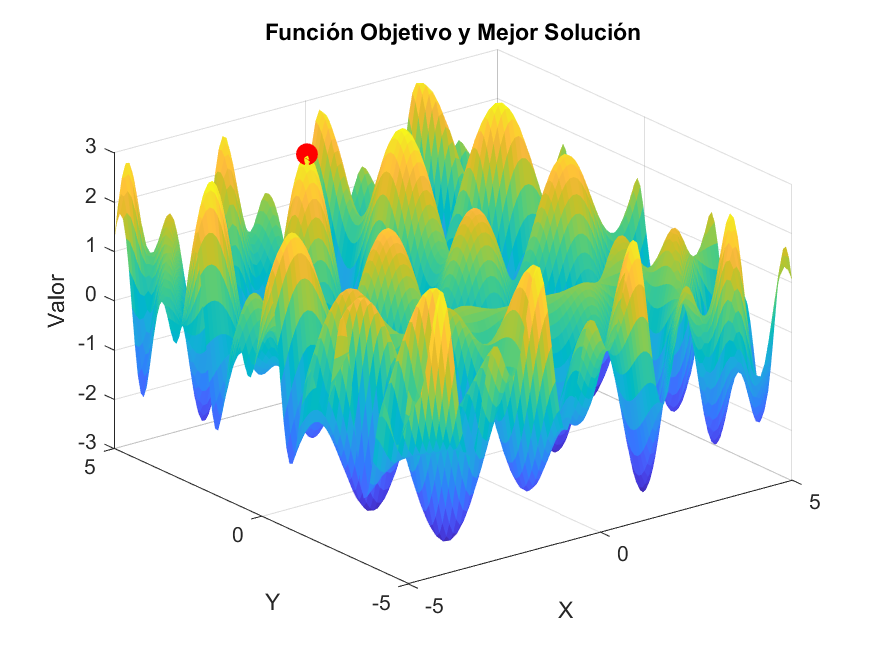
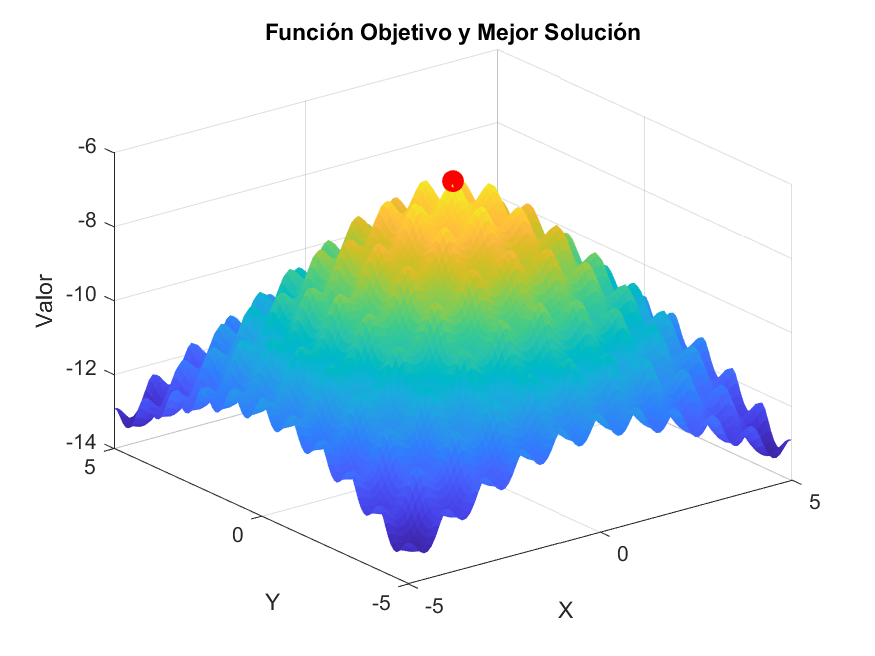
Corrección en funciones objetivo

diff --git a/ObjectiveFunc.m b/ObjectiveFunc.m
@@ -1,42 +1,43 @@
-function Z = ObjectiveFunc2D(V)
-    % Función para n variables
-
-    %Z = -sum(V.^2, 2);
-
+function Z = ObjectiveFunc(V)
+    % Función para n variables (signo - para minimizar)
+    Z1 = (sum(V.^2, 2));
+    Z2 = -(V(:,1).^2 + (10^6)*sum(V(:,2:end).^2,2));
+    
+    %Variables auxiliares
     x = V(:,1);
     y = V(:,2);
-
     z0 = 2.5;  
 
     % 1) Función Esférica
-    % Z = -(x.^2 + y.^2 + z0^2);
+    Z3 = -(x.^2 + y.^2 + z0^2);
 
     % 2) Función Lineal
-    % Z = (x + 2.*y + 3.*z0);
+    Z4 = (x + 2.*y + 3.*z0);
 
     % 3) Interacción entre variables
-    % Z = -( x.*y + y.*z0 + z0.*x );
+    Z5 = -( x.*y + y.*z0 + z0.*x );
 
     % 4) Cúbica polinómica
-    % Z = -( x.^2.*y + y.*z0.^2 + z0.*x.^2 );
+    Z6 = -( x.^2.*y + y.*z0.^2 + z0.*x.^2 );
 
     % 5) Logarítmica
-    % Z = log( x.^2 + y.^2 + z0.^2 + 1 );
+    Z7 = log( x.^2 + y.^2 + z0.^2 + 1 );
 
     % 6) Trigonométrica básica
-    % Z = sin(x) + cos(y) + sin(z0);
+    Z8 = sin(x) + cos(y) + sin(z0);
 
     % 7) Trigonométrica compuesta
-     Z = sin(x.*y) + cos(y.*z0) + sin(z0.*x);
+    Z9 = sin(x.*y) + cos(y.*z0) + sin(z0.*x);
 
     % 8) Cuadrática con término lineal (cóncava)
-    % Z = -(x.^2 + y.^2 + z0^2) + 4.*x + 6.*y + 2.*z0;
+    Z10 = -(x.^2 + y.^2 + z0^2) + 4.*x + 6.*y + 2.*z0;
 
     % 9) Ackley
     %     f = -20*exp(-0.2*sqrt((x^2+y^2+z^2)/3)) ...
     %         - exp((cos(2πx)+cos(2πy)+cos(2πz))/3) + 20 + e
-
-    % Z = -(-20*exp(-0.2*sqrt((x.^2 + y.^2 + z0.^2)/3)) ...
-    %     - exp((cos(2*pi*x) + cos(2*pi*y) + cos(2*pi*z0))/3) ...
-    %     + 20 + exp(1));
+    Z11 = -(-20*exp(-0.2*sqrt((x.^2 + y.^2 + z0.^2)/3)) ...
+         - exp((cos(2*pi*x) + cos(2*pi*y) + cos(2*pi*z0))/3) ...
+         + 20 + exp(1));
+    %Aquí se elige la función objetivo
+    Z= Z11;
 end

diff --git a/@BH/BH_Func.m b/@BH/BH_Func.m
@@ -1,6 +1,6 @@
 function [blackHole, bestSolution, bestCost, allBestCost] = BH_Func(blackHole)
-    %% Initialization
-    % Crear población inicial
+
+    %% Inicialización: crear población inicial
     locationOfStars = repmat(blackHole.varMin, blackHole.numOfStars, 1) + ...
                       repmat(blackHole.varMax - blackHole.varMin, blackHole.numOfStars, 1) ...
                       .* rand(blackHole.numOfStars, blackHole.nVar);
@@ -79,7 +79,7 @@ function [blackHole, bestSolution, bestCost, allBestCost] = BH_Func(blackHole)
     title('Convergencia del Costo');
     xlabel('Iteración'); ylabel('Mejor Costo'); grid on;
 
-    %% Visualización final para nVar == 2 (opcional)
+    %% Visualización final para nVar == 2
     if blackHole.nVar == 2
         figure;
         [X,Y] = meshgrid(linspace(blackHole.varMin(1),blackHole.varMax(1),100), ...

diff --git a/BH_Main.m b/BH_Main.m
@@ -3,14 +3,13 @@ close all;
 
 %% Problem Definition
 rng(1);
-%numberOfVariable = 10;          % Number of input variables
-%lowerBound = -10*ones(1,10);          % Lower Bound of input variables
-%higherBound = 10*ones(1,10);         % Higher Bound of input variables
+%numberOfVariable = 10;             % Number of input variables
+%lowerBound = -10*ones(1,10);       % Lower Bound of input variables
+%higherBound = 10*ones(1,10);       % Higher Bound of input variables
 
 numberOfVariable = 2;
 lowerBound = -5 * ones(1, 2);
 higherBound = 5 * ones(1, 2);
-
 
 %% Parameter of BH
 numberOfStars = 60; %Number Of Stars
